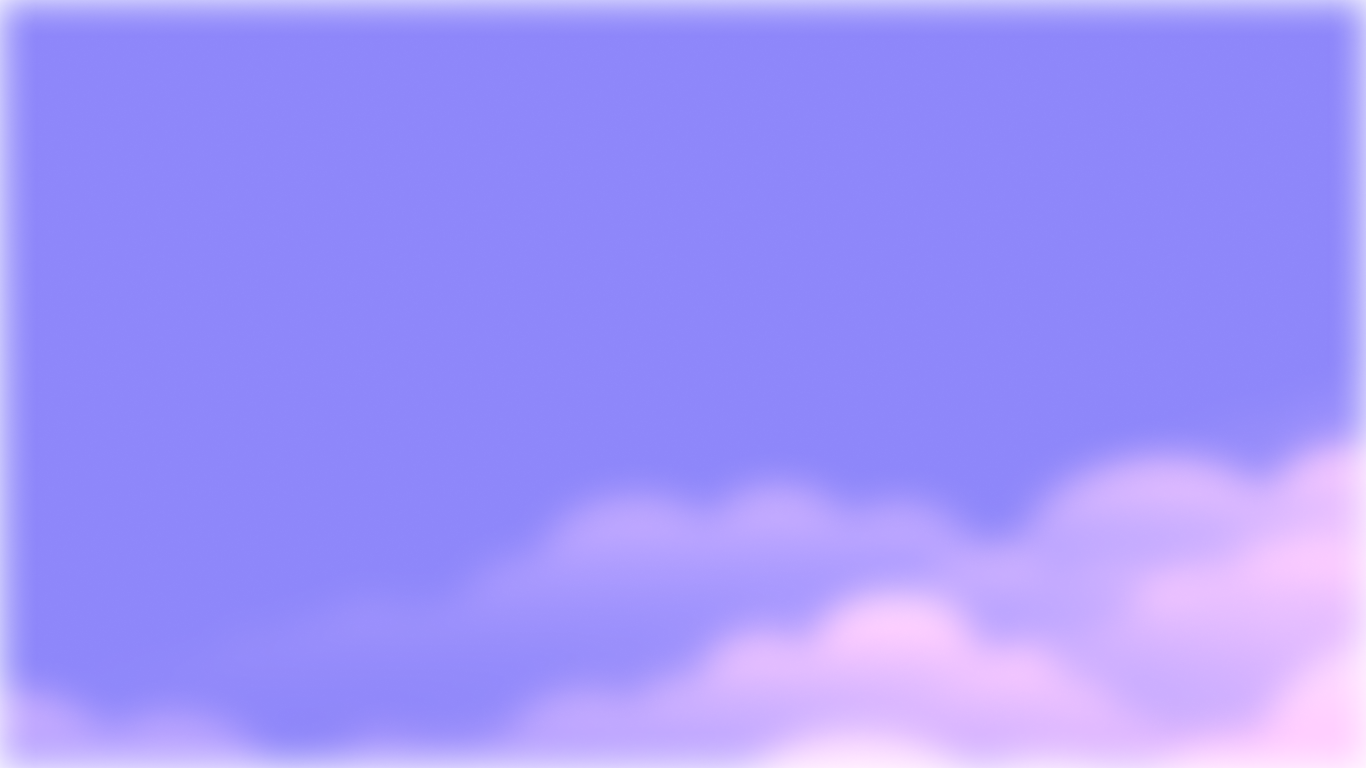
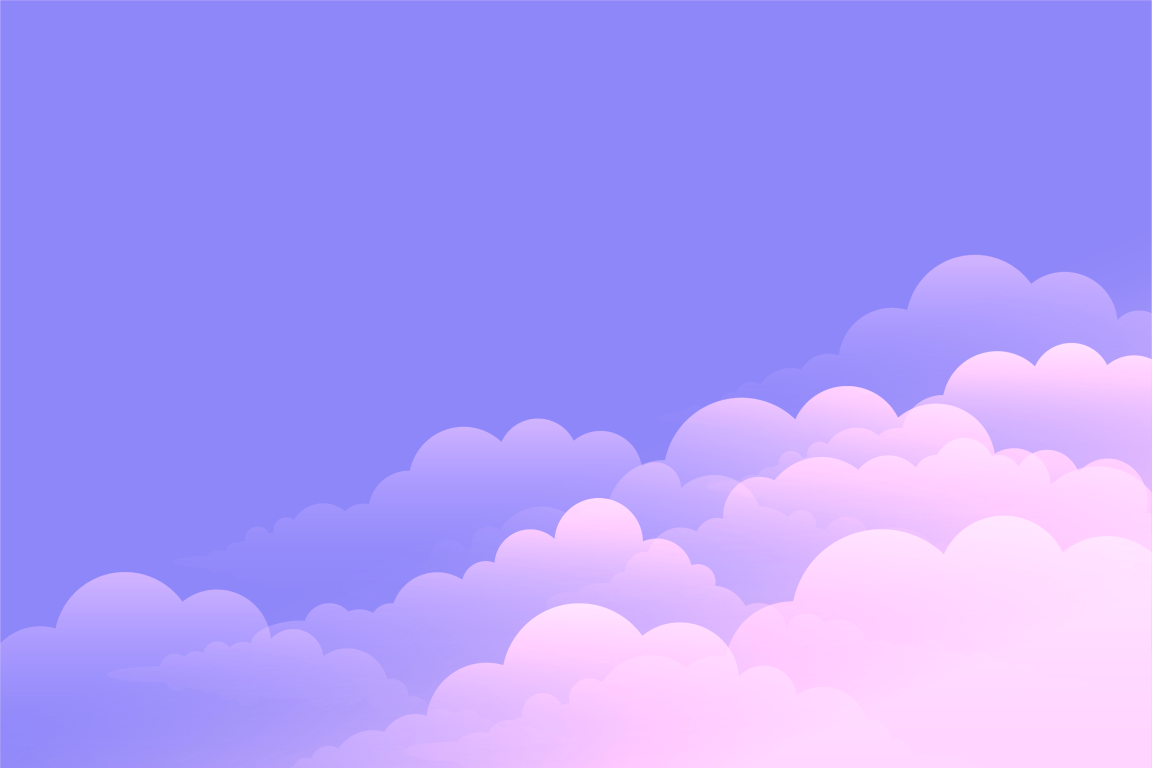
adding images

diff --git a/src/App.js b/src/App.js
@@ -1,25 +1,7 @@
-import logo from './logo.svg';
-import './App.css';
+import "./App.css";
 
 function App() {
-  return (
-    <div className="App">
-      <header className="App-header">
-        <img src={logo} className="App-logo" alt="logo" />
-        <p>
-          Edit <code>src/App.js</code> and save to reload.
-        </p>
-        <a
-          className="App-link"
-          href="https://reactjs.org"
-          target="_blank"
-          rel="noopener noreferrer"
-        >
-          Learn React
-        </a>
-      </header>
-    </div>
-  );
+    return <main className="App"></main>;
 }
 
 export default App;

diff --git a/src/App.css b/src/App.css
@@ -1,0 +1,4 @@
+.App {
+    height: 100vh;
+    background: url(../public/assets/background.png) no-repeat center / cover;
+}
